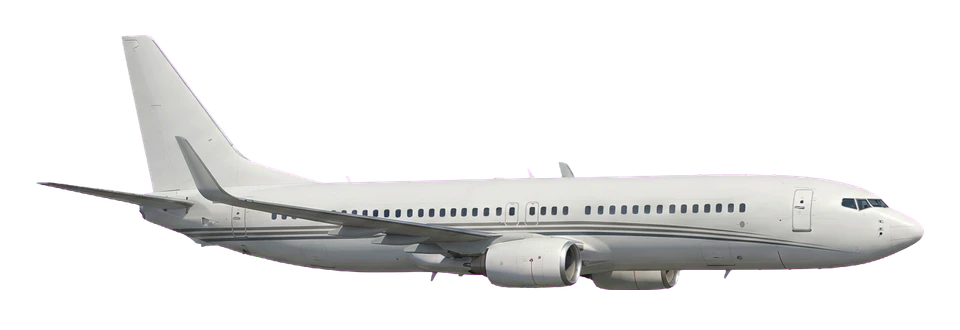
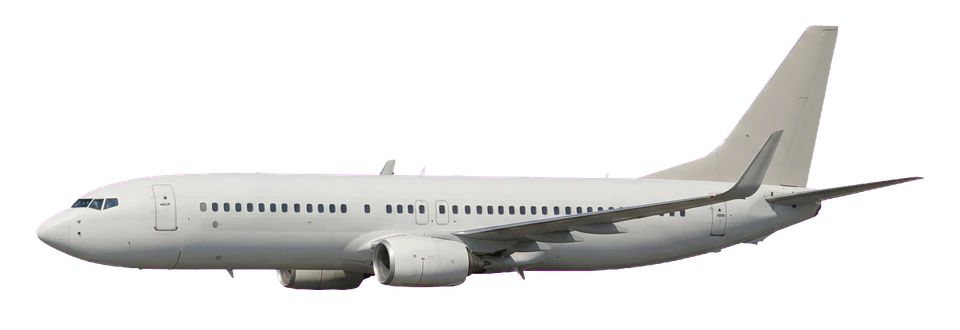
Complete PG-026 plane artwork release

Changed region(s): [[0.0312, 0.0606, 0.9688, 0.8788]]

diff --git a/test/plane-manifest.test.js b/test/plane-manifest.test.js
@@ -234,3 +234,18 @@ test('PG-002 public manifest contains no generation runtime or private paths', a
     assert.equal(source.toLowerCase().includes(forbidden), false, `public manifest contains ${forbidden}`);
   }
 });
+
+test('PG-026 releases exactly 74 complete approved independent pairs', () => {
+  assert.equal(PLANE_ASSETS.length, 148);
+  assert.equal(new Set(PLANE_ASSETS.map(({ artworkId }) => artworkId)).size, 74);
+  assert.ok(PLANE_ASSETS.every(({ approvalStatus }) => approvalStatus === 'approved'));
+  const recordsByKey = Object.fromEntries(prompts.records.map((record) => [record.key, record]));
+  for (const artworkId of new Set(PLANE_ASSETS.map((asset) => asset.artworkId))) {
+    const pair = PLANE_ASSETS.filter((asset) => asset.artworkId === artworkId);
+    assert.deepEqual(pair.map(({ direction }) => direction).sort(), ['left', 'right']);
+    const provenance = pair.map((asset) => recordsByKey[asset.promptRecordKey]);
+    assert.ok(provenance.every(({ status }) => status === 'approved'));
+    assert.equal(new Set(provenance.map(({ output }) => output.sha256)).size, 2,
+      `${artworkId} must retain independent directional bytes`);
+  }
+});

diff --git a/test/plane-library-generator.test.js b/test/plane-library-generator.test.js
@@ -167,3 +167,22 @@ test('PG-004 checkpoint skips completed requests unless Force is explicit', asyn
   assert.match(forced.stdout, /\[GENERATE\] test-plane right/);
 });
 
+test('approved replacements require explicit candidate-only authorization and a reason', async (t) => {
+  const value = await fixture({ rightApproved: true });
+  t.after(() => rm(value.directory, { recursive: true, force: true }));
+  const args = [...commonArgs(value), '-ArtworkId', 'test-plane', '-Direction', 'right', '-DryRun'];
+
+  const blocked = run(args);
+  assert.notEqual(blocked.status, 0);
+  assert.match(compact(blocked.stderr), /use -ReplaceApproved with -ReplacementNote/);
+
+  const missingReason = run([...args, '-ReplaceApproved']);
+  assert.notEqual(missingReason.status, 0);
+  assert.match(compact(missingReason.stderr), /use -ReplaceApproved with -ReplacementNote/);
+
+  const allowed = run([...args, '-ReplaceApproved', '-ReplacementNote', '2026-11-05 reviewer rejection']);
+  assert.equal(allowed.status, 0, allowed.stderr);
+  assert.match(allowed.stdout, /approved target \(read-only\)/);
+  assert.match(allowed.stdout, /Dry run complete; Vertex was not called/);
+});
+

diff --git a/design/plane-art/phase3-release-gate.md b/design/plane-art/phase3-release-gate.md
@@ -1,0 +1,82 @@
+# Phase 3 release gate (PG-026)
+
+Approved **2026-11-05**. Version 1 contains exactly **74 treatments and 148
+approved independently generated directional WebPs**. The manifest and prompt
+catalog cover every treatment with controlled categories, size classes, ICAO
+types, callsign prefixes, and cycle-free same-direction fallbacks.
+
+## Final gallery review and repairs
+
+All 74 pairs were compared over the production sky and checkerboard at 272 px
+hero and 46 px blip sizes, in both directions and at climb, level, and descent
+tilts. The final review rejected twelve files identified by the reviewer:
+
+- `fdx-widebody:left` and `ual-widebody:left`: enclosed magenta was removed with
+  the documented global chroma extraction at distance 120.
+- Both directions of `atr`, `generic-twin-piston`, and `pilatus-pc12`, plus
+  `beech-piston:left`: smoke-like upper shading was corrected with the frozen
+  deterministic lighting repair while preserving alpha and geometry.
+- `dash8:right` and `generic-narrowbody:left`: new Vertex candidates corrected
+  malformed wing geometry and the wrong direction respectively.
+- `beech-piston:right`: the new Vertex candidate was rejected for drone-like
+  geometry. A constrained OpenAI precise-object edit restored conventional
+  Baron-class twin-piston anatomy, removed its registration, and preserved the
+  approved neutral treatment. The output provenance retains the Vertex request,
+  prompt revision, edit hash, replacement reason, and final SHA-256.
+
+Every replacement was processed at 960 x 330, quality 90, alpha quality 100,
+effort 4, and the fixed y=289 visible-pixel baseline. Sub-40 KB replacements
+retain explicit quality-reviewed exceptions; no output exceeds 110 KB.
+
+## Local and demo traffic audit
+
+The representative eight-flight demo resolves American, United, Southwest,
+Delta, Frontier, FedEx, Cessna 172, and a SkyWest-operated E175-class regional
+aircraft without an unsafe or missing path. `SKW` intentionally stays on the
+generic regional treatment because the operating brand is ambiguous without a
+reliable marketed-carrier signal. That is the only obvious demo gap and is a
+Phase 4 observation, not justification for an ad-hoc treatment. No live traffic
+capture was added to the repository; future additions remain limited to the
+evidence rules in PG-027.
+
+## Cold-cache mobile evidence
+
+The 2026-11-05 throttled run used an 844 x 390 @2x mobile viewport, 4x CPU
+slowdown, 150 ms latency, 1.6 Mbps download, and 750 Kbps upload.
+
+| Visible aircraft | Asset mix | Cold requests | Cold bytes | Cold ready | Warm bytes | Warm ready |
+| ---: | --- | ---: | ---: | ---: | ---: | ---: |
+| 1 | unique | 1 | 33,608 | 3.045 s | 0 | 1.398 s |
+| 4 | unique | 4 | 137,612 | 3.483 s | 0 | 1.363 s |
+| 4 | duplicate | 1 | 28,412 | 2.736 s | 0 | 1.377 s |
+| 8 | unique | 8 | 258,306 | 4.210 s | 0 | 1.454 s |
+| 8 | duplicate | 1 | 28,412 | 2.814 s | 0 | 1.393 s |
+
+Cold requests equal visible unique URLs, duplicate aircraft share one request,
+unused library files are never requested, and every warm run transfers zero
+image bytes. Measured CLS was 0.0435 in each scenario.
+
+## Model, prompt, limitations, and replacement
+
+Production generation remains pinned to Google Cloud Vertex AI model
+`gemini-3.1-flash-image`. The final geometry retries add scoped prompt revision
+`pg026-visual-rejection-retry-1`; the earlier global clean-lighting amendment
+and per-batch chroma exceptions remain intact. Known limitations are generated
+micro-detail at enlarged sizes, intentionally generic ambiguous operators, and
+recorded below-target byte exceptions for visually simple aircraft.
+
+Approved replacement generation requires both `-ReplaceApproved` and a nonempty
+`-ReplacementNote`. It writes candidates only below `.generated/plane-art/` and
+keeps the approved target read-only. Promotion still requires processing with
+`--replace-approved --replacement-note`, visual pair review, provenance/hash
+updates, and the full validation suite.
+
+## Release commands
+
+```text
+npm run plane-art:validate-prompts
+npm run plane-art:validate
+npm test
+npm run test:browser
+npm run plane-art:measure-performance
+```

diff --git a/design/plane-art/README.md b/design/plane-art/README.md
@@ -652,6 +652,13 @@ range exceptions are documented in
 
 Run `npm run plane-art:audit-phase3-military` to reproduce the three-pair audit.
 
+## PG-026 Phase 3 release gate
+
+The complete v1 library is frozen at exactly 74 approved treatments and 148
+independent directional WebPs. Final gallery repairs, the demo/local traffic-gap
+audit, throttled cold-cache evidence, known limitations, and release commands
+are recorded in [`phase3-release-gate.md`](phase3-release-gate.md).
+
 ### Adding a future asset-library version
 
 A future library is added beside this one, for example
